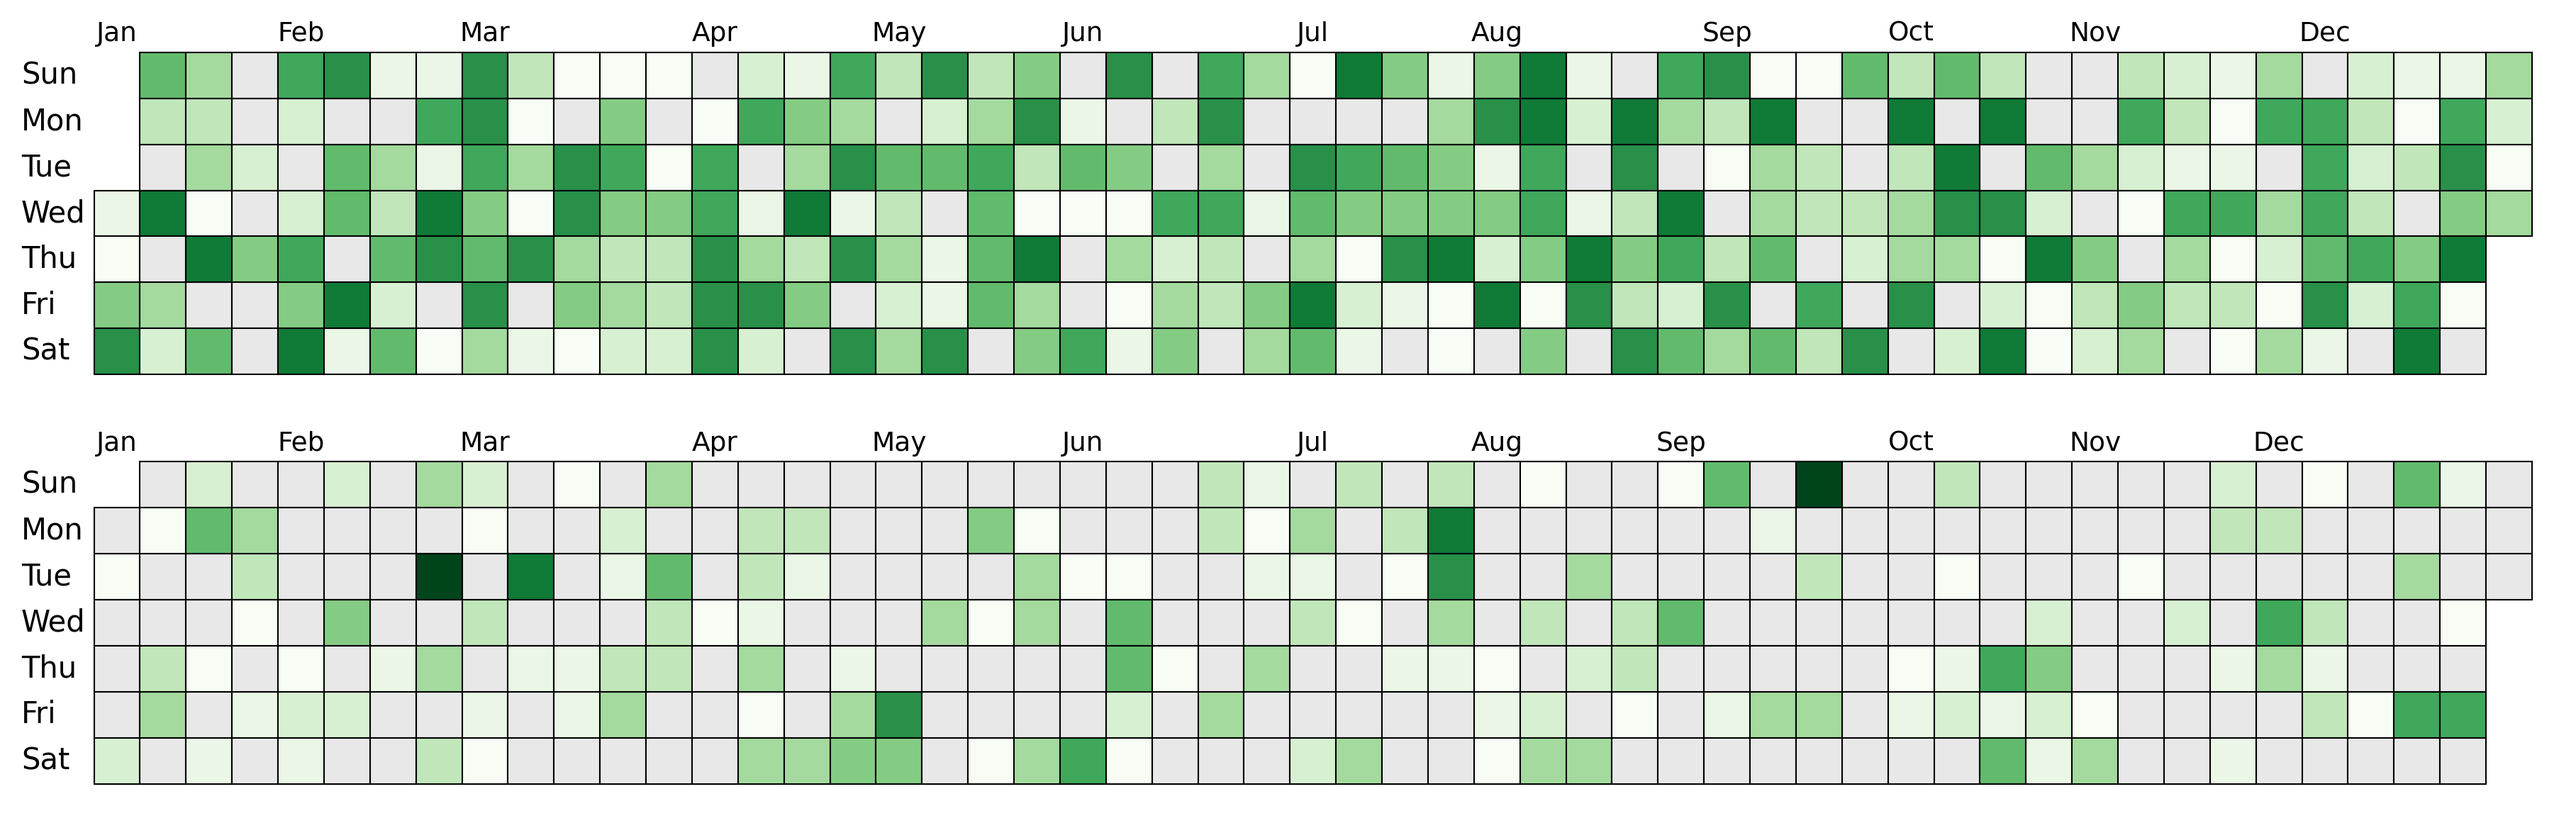
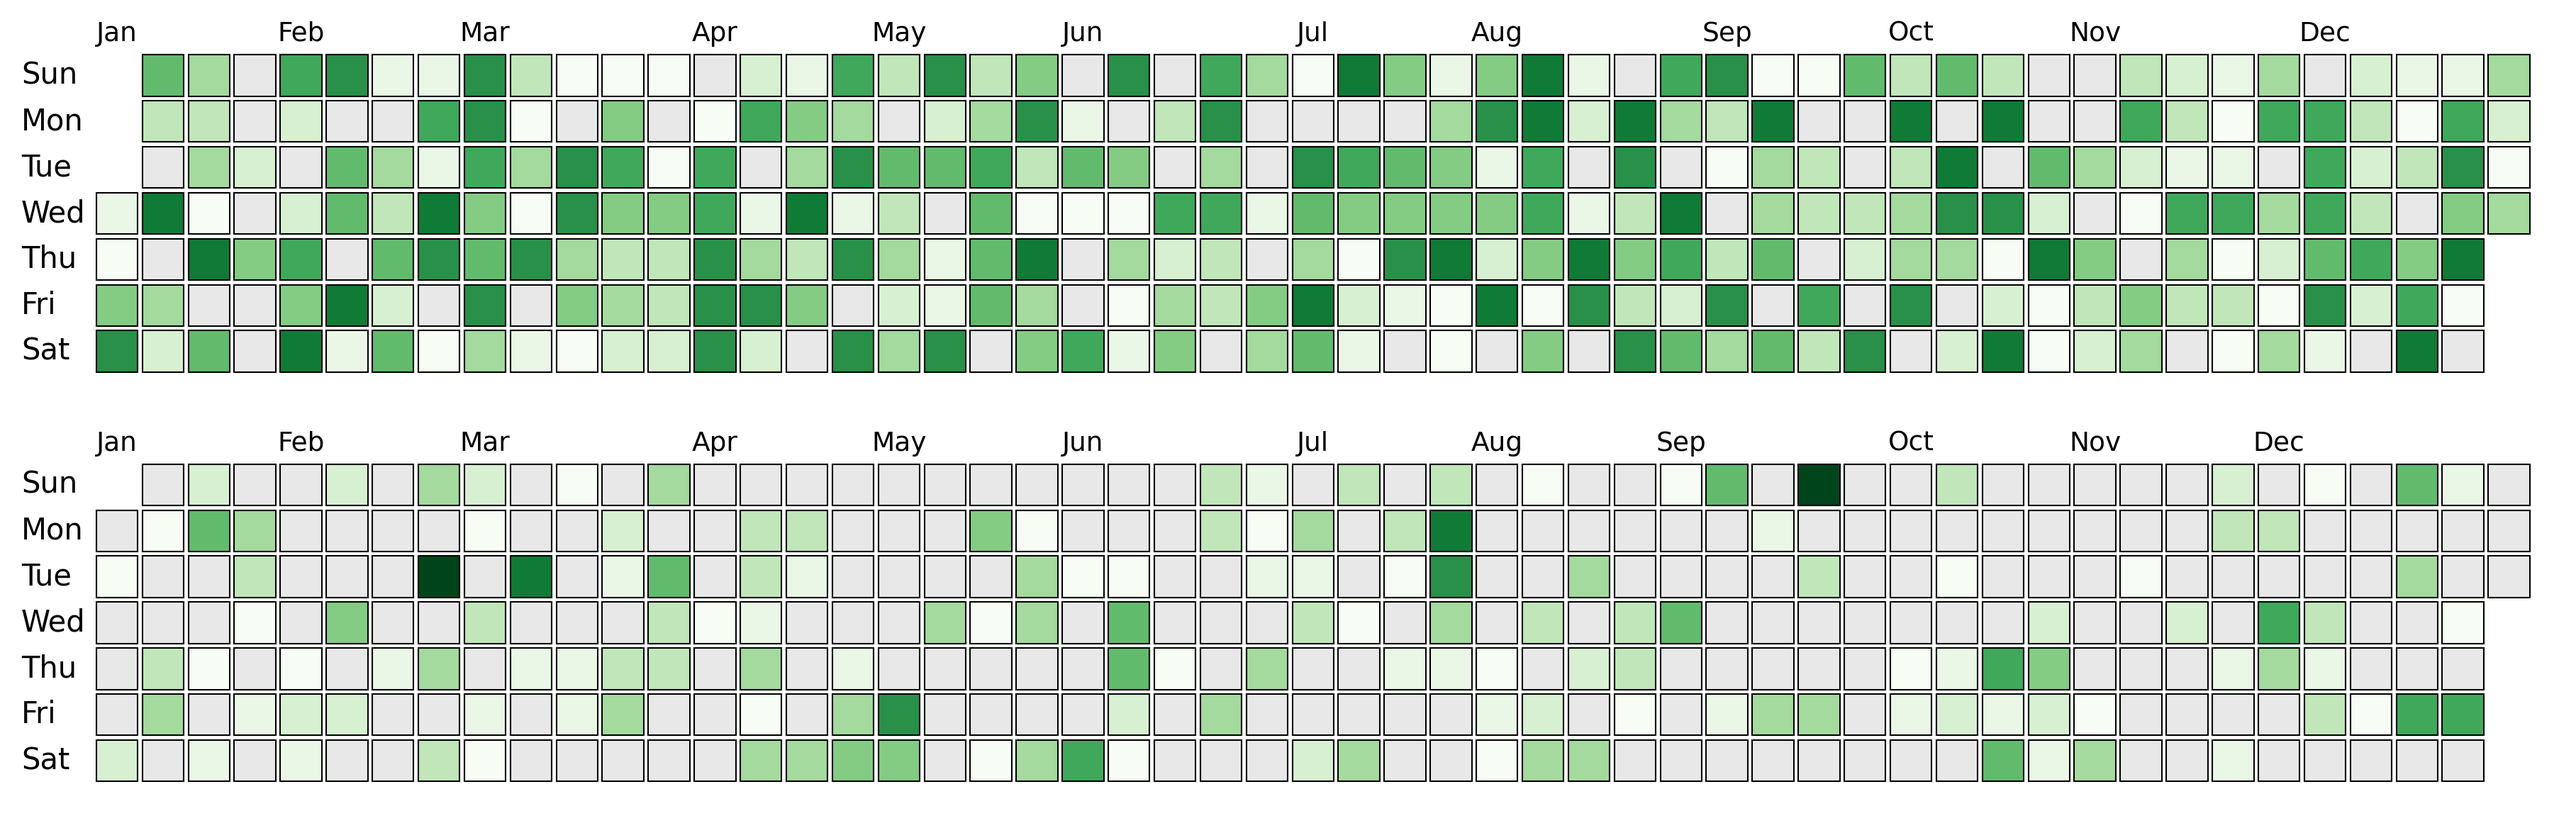
boxstyle"

Changed region(s): [[0.0311, 0.0616, 0.9953, 0.4623], [0.0311, 0.5548, 0.9953, 0.9555]]

diff --git a/dayplot/main.py b/dayplot/main.py
@@ -29,7 +29,10 @@ def calendar(
     vmin: Optional[float] = None,
     vmax: Optional[float] = None,
     vcenter: Optional[float] = None,
+    boxstyle: Union[str, matplotlib.patches.BoxStyle] = "square",
+    mutation_scale: float = 1,
     ax: Optional[matplotlib.axes.Axes] = None,
+    **kwargs,
 ) -> List[matplotlib.patches.Rectangle]:
     """
     Create a calendar heatmap (GitHub-style) from input dates and values,
@@ -101,14 +104,23 @@ def calendar(
         to position a central reference (e.g., zero). If None and the data spans negative and
         positive values, `vcenter` will default to 0. Providing vcenter overrides this automatic
         setting.
+    boxstyle
+        The style of each box. This will be passed to matplotlib.patches.FancyBboxPatch. Available
+        values are: "square", "circle", "ellipse", "larrow"
+    mutation_scale
+        Scale factor for the size of each cell. Default to 1.
     ax
         A matplotlib axes. If None, plt.gca() will be used. It is advisable to make
         this explicit to avoid unexpected behaviour, particularly when manipulating a
         figure with several axes.
+    kwargs
+        Any additional arguments that will be passed to matplotlib.patches.FancyBboxPatch. For example,
+        you can set `alpha`, `hatch`, `linestyle`, etc.
+        You can find them all here: https://matplotlib.org/stable/api/_as_gen/matplotlib.patches.FancyBboxPatch.html
 
     Returns
     -------
-    A list of matplotlib.patches.Rectangle (one for each square).
+    A list of matplotlib.patches.FancyBboxPatch (one for each cell).
 
     Notes
     -----
@@ -134,6 +146,33 @@ def calendar(
 
     month_kws = month_kws or {}
     day_kws = day_kws or {}
+
+    implemented_boxstyle = [
+        "square",
+        "circle",
+        "round",
+        "round4",
+        "sawtooth",
+        "roundtooth",
+    ]
+    not_implemented_boxstyle = [
+        "ellipse",
+        "larrow",
+        "rarrow",
+        "darrow",
+    ]
+    if isinstance(boxstyle, str):
+        if boxstyle not in implemented_boxstyle:
+            if boxstyle in not_implemented_boxstyle:
+                return NotImplementedError
+            else:
+                raise ValueError(
+                    f"Invalid boxstyle value. Must be in {implemented_boxstyle}, not {boxstyle}."
+                )
+    elif not isinstance(boxstyle, matplotlib.patches.BoxStyle):
+        raise ValueError(
+            f"boxstyle must either be a string or a matplotlib.patches.BoxStyle, not {boxstyle}"
+        )
 
     if len(dates) != len(values):
         raise ValueError("`dates` and `values` must have the same length.")
@@ -198,7 +237,6 @@ def calendar(
     all_counts = np.array(list(date_counts.values()))
     min_count, max_count = all_counts.min(), all_counts.max()
 
-    # If vmin or vmax are not given, use data range.
     if vmin is None:
         vmin = min_count
     if vmax is None:
@@ -207,7 +245,6 @@ def calendar(
     if vcenter is not None:
         is_diverging = True
         norm = TwoSlopeNorm(vmin=vmin, vcenter=vcenter, vmax=vmax)
-    # If vcenter is None, use 0 only when data spans negative and positive.
     else:
         # If we have both negative and positive values, use a diverging scale with 0 in the center.
         # Otherwise, we use a simple Normalize.
@@ -216,7 +253,6 @@ def calendar(
             norm = TwoSlopeNorm(vmin=vmin, vcenter=0, vmax=vmax)
         else:
             is_diverging = False
-            # All counts are >= 0 or <= 0, so just do linear scaling
             norm = Normalize(vmin=vmin, vmax=vmax)
 
     rect_patches = []
@@ -244,6 +280,17 @@ def calendar(
             edgecolor=edgecolor,
             facecolor=face_color,
         )
+        rect = patches.FancyBboxPatch(
+            xy=(week + 0.35, weekday + 0.35),
+            width=0.3,
+            height=0.3,
+            linewidth=edgewidth,
+            edgecolor=edgecolor,
+            facecolor=face_color,
+            boxstyle=boxstyle,
+            mutation_scale=mutation_scale,
+            **kwargs,
+        )
         ax.add_patch(rect)
         rect_patches.append(rect)
 
@@ -264,7 +311,6 @@ def calendar(
     ax.set_ylim(-0.5, 7.5)
     ax.set_xticks([])
     ax.set_yticks([])
-    ax.tick_params(size=0)
     ax.invert_yaxis()
 
     day_text_style = dict(transform=ax.get_yaxis_transform(), ha="left", va="center")
@@ -285,20 +331,13 @@ if __name__ == "__main__":
 
     df = dp.load_dataset()
 
-    rng = np.random.default_rng(42)
-    all_dates = [datetime(2024, 1, 1) + timedelta(days=i) for i in range(365)]
-    values = [rng.integers(-10, 10) for _ in range(365)]
     fig, ax = plt.subplots(figsize=(15, 6))
     calendar(
-        all_dates,
-        values,
+        df["dates"],
+        df["values"],
         start_date="2024-01-01",
         end_date="2024-12-31",
-        cmap="RdBu",
-        color_for_none="#e8e8e8",
+        mutation_scale=1.15,
     )
-
-    fig, ax = plt.subplots(figsize=(15, 6))
-    calendar(df["dates"], df["values"], start_date="2024-01-01", end_date="2024-12-31")
     fig.savefig("test.png", dpi=300, bbox_inches="tight")
-    plt.show()
+    plt.close()

diff --git a/docs/img/make.py b/docs/img/make.py
@@ -1,7 +1,6 @@
 import matplotlib.pyplot as plt
 from dotenv import load_dotenv
 import os
-import numpy as np
 
 import dayplot as dp
 
@@ -160,10 +159,8 @@ fig.savefig("docs/img/combine-chart-2.png", bbox_inches="tight", dpi=300)
 ########################################################################
 
 df = dp.load_dataset()
-random_indices = np.random.choice(df.index, size=40, replace=False)
-df.loc[random_indices, "values"] = -df.loc[random_indices, "values"]
-sampled_indices = df.sample(n=40, replace=False).index
-df.loc[sampled_indices, "values"] *= -1
+
+df.loc[df.sample(n=40, replace=False).index, "values"] *= -1
 
 fig, ax = plt.subplots(figsize=(16, 4))
 
@@ -173,7 +170,6 @@ dp.calendar(
     cmap="RdBu",  # use a diverging colormap
     start_date="2024-01-01",
     end_date="2024-12-31",
-    vcenter=0,
     ax=ax,
 )
 
@@ -181,3 +177,27 @@ dp.calendar(
 fig.savefig("docs/img/negative-values-1.png", bbox_inches="tight", dpi=300)
 
 ########################################################################
+
+df = dp.load_dataset()
+df.loc[df.sample(n=40, replace=False).index, "values"] *= -1
+
+fig, ax = plt.subplots(figsize=(16, 4))
+
+dp.calendar(
+    dates=df["dates"],
+    values=df["values"],
+    cmap="RdBu",  # use a diverging colormap
+    start_date="2024-01-01",
+    end_date="2024-12-31",
+    vmin=-3,
+    vcenter=0,
+    vmax=10,
+    ax=ax,
+)
+
+
+fig.savefig("docs/img/negative-values-2.png", bbox_inches="tight", dpi=300)
+
+########################################################################
+
+plt.close("all")

diff --git a/tests/test_main.py b/tests/test_main.py
@@ -154,7 +154,7 @@ def test_calendar_patch_type(sample_data):
     fig, ax = plt.subplots()
     rect_patches = calendar(dates, values, ax=ax)
     for rect_patch in rect_patches:
-        assert isinstance(rect_patch, matplotlib.patches.Rectangle)
+        assert isinstance(rect_patch, matplotlib.patches.FancyBboxPatch)
 
 
 def test_calendar_p90_scaling():

diff --git a/docs/tuto/negative-values.md b/docs/tuto/negative-values.md
@@ -1,6 +1,10 @@
 ### Handling negative values
 
-Pro tips: you can find great colormaps using [pypalettes](https://python-graph-gallery.com/color-palette-finder/){target=\_blank}.
+`dayplot` makes it straightforward to plot negative values.
+
+Under the hood, it automatically checks for them. If no negative values are found, all days with 0 or missing data are displayed in light gray (using the `color_for_none` argument). In this case, it's recommended to use a [sequential colormap](https://matplotlib.org/stable/users/explain/colors/colormaps.html#sequential){target=\_blank}.
+
+Otherwise, `color_for_none` is ignored and all cells are colored according to their values. Any missing data is treated as 0 by default, so if you need a different approach, fill in the data before plotting.
 
 ```py
 import matplotlib.pyplot as plt
@@ -8,26 +12,31 @@ import dayplot as dp
 
 df = dp.load_dataset()
 
-fig, ax = plt.subplots(figsize=(15, 6))
+# add negative values at some random dates
+df.loc[df.sample(n=40, replace=False).index, "values"] *= -1
+
+fig, ax = plt.subplots(figsize=(16, 4))
 dp.calendar(
     dates=df["dates"],
     values=df["values"],
-    cmap="RdBu", # use a diverging colormap
-    start_date="2023-01-01",
-    end_date="2023-12-31",
+    cmap="RdBu", # use a diverging colormap (red -> white -> blue)
+    start_date="2024-01-01",
+    end_date="2024-12-31",
     ax=ax,
 )
 ```
 
-![](../img/cmap.png)
+![](../img/negative-values-1.png)
+
+Red days are the ones with negative values.
 
 <br>
 
-### Change other colors
+### Control colormap scaling
 
-You can change the color between squares with the `edgecolor` argument and the color for "none" (aka 0) with the `color_for_none` argument.
+You can set custom boundaries for the colormap using the `vmin`, `vcenter` and `vmax` arguments. In this example, any cell with a value at or below -3 displays in the deepest red hue, 0 is shown in a neutral color (white), and any cell at or above 10 appears in the most intense blue.
 
-Also, use `edgewidth` to moderate the width of the edge between squares.
+This can be used as a convenient way of controlling color mapping when there are outliers.
 
 ```py
 import matplotlib.pyplot as plt
@@ -35,19 +44,23 @@ import dayplot as dp
 
 df = dp.load_dataset()
 
-fig, ax = plt.subplots(figsize=(15, 6))
+# add negative values at some random dates
+df.loc[df.sample(n=40, replace=False).index, "values"] *= -1
+
+fig, ax = plt.subplots(figsize=(16, 4))
 dp.calendar(
     dates=df["dates"],
     values=df["values"],
+    cmap="RdBu", # use a diverging colormap (red -> white -> blue)
     start_date="2024-01-01",
     end_date="2024-12-31",
-    edgecolor="white",      # any matplotlib color
-    color_for_none="black", # any matplotlib color
-    edgewidth=1,
+    vmin=-3,
+    vcenter=0,
+    vmax=10,
     ax=ax,
 )
 ```
 
-![](../img/colors.png)
+![](../img/negative-values-2.png)
 
 <br><br>

diff --git a/docs/index.md b/docs/index.md
@@ -35,6 +35,7 @@ pip install git+https://github.com/JosephBARBIERDARNAL/dayplot.git
 ## Guide
 
 - [Customise the charts](tuto/styling)
+- [Work with negative values](tuto/negative-values)
 - [Combining charts](tuto/combine-charts)
 - [Fetch (and plot) Github contributions](tuto/fetch-github-contribs)
 
